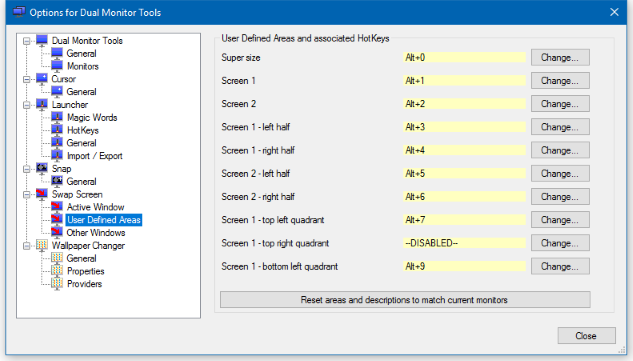
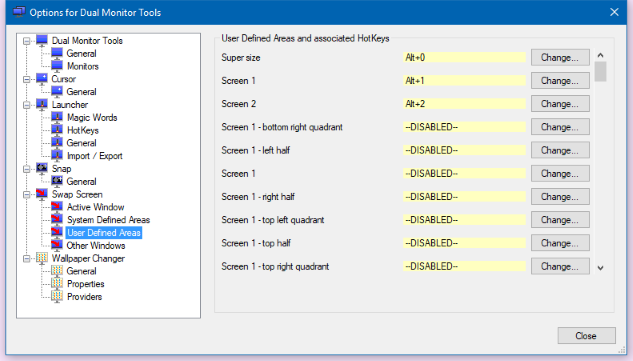
Updates ready for 2.6 release
git-svn-id: svn://svn.code.sf.net/p/dualmonitortool/code/trunk@459 fb2ba5e6-08d8-4d4c-bdde-3d14dca355d2

diff --git a/Web/dmt_swapscreen.html b/Web/dmt_swapscreen.html
@@ -121,14 +121,36 @@ only cycle through the half screens and not the normal size of the window.
 <p>Moves the active window to the next half screen (splitting each screen into 2 rows).
 </p>
 
+<p class="SubHeading">'System Defined Areas' options</p>
+
+<img src="Images/dmt_swapscreen_sda.png" alt="Active to SDA Window" />
+<p>These allow you to move the active window to a System Defined Area (SDA).</p>
+
+<p>A particular combination of the Shift, Ctrl, Win and Alt keys are used to identify each screen. You can adjust the combination to use for a particular screen by moving the lines up or down in the box shown in the center of the above screenshot.</p>
+
+<p>The numeric pad keys are then used to define 9 areas on each screen:
+<ul>
+	<li>&lt;Num 5&gt; - The full screen</li>
+	<li>&lt;Num 4&gt; and &lt;Num 6&gt; - The left and right screen halves</li>
+	<li>&lt;Num 8&gt; and &lt;Num 2&gt; - The top and bottom halves</li>
+	<li>&lt;Num 7&gt;, &lt;Num 9&gt;,&lt; &lt;Num 1&gt; and &lt;Num 3&gt; - the 4 screen quadrants</li>
+</ul>
+
+In addition &lt;Num 0&gt; when used with modifier keys for the first screen, will represent an area covering all of your monitors.
+</p>
+
+<p>So in the screenshot above, Ctrl+&lt;Num 7&gt; would move the active window to to top left quarter of the first screen, and Win+&lt;Num 3&gt; would move it to the bottom right quarter of the second screen.</p>
+
+<p>It is possible that Some key combinations may not be available, either because they are in use by other applications or by DMT itself for other functions.  If there are any that are not available, then they will reported in the area at the bottom of the screen.  If this happens, you can just try different modifier keys. </p>
+
 <p class="SubHeading">'User Defined Areas' options</p>
 
 <img src="Images/dmt_swapscreen_uda.png" alt="Active to UDA Window" />
 <p>These allow you to move the active window to a User Defined Area (UDA).</p>
 
-<p>When first run, 10 default UDA's are generated, but you may change the name, location, size and the hotkey for all of these.  If you wish to regenerate this list at a later date, say after you have added/removed monitors
-then press the "Reset areas and descriptions to match current monitors" button.</p>
+<p>You can specify up to 100 screen areas that you would like to be able to move the active window to with a hotkey.</p>
 
+<p>Unlike previous versions of DMT, there is now no automatic generation of UDAs as this functionality is now provided by SDAs.</p>
 
 <p class="SubHeading">'Other Windows' options</p>
 
@@ -180,7 +202,7 @@ to restore normal operation of the game, and in others it can mess the current g
 		<div id="footer-left">
 		</div>
 		<div id="footer-right">
-		last updated 30 Dec 2016
+		last updated 8 Jul 2017
 		</div>
 	</div>
 </div>

diff --git a/Web/history.html b/Web/history.html
@@ -56,6 +56,17 @@
 <div id="content">
 
 
+<p class="SubHeading">8 Jul 2017 - release 2.6</p>
+
+<p><b>DMT</b></p>
+<ul>
+	<li>SwapScreen now allows up to 100 user defined areas.</li>
+	<li>SwapScreen added system defined areas for each screen/half/quarter.</li>
+	<li>SwapScreen fix for snap up/down/left/right when taskbar at (0, 0).</li>
+	<li>Wallpaper changer can now enable/disable providers from grid.</li>
+	<li>Cursor fix for cursor sometimes passing to another screen when it shouldn't.</li>
+</ul>
+
 
 <p class="SubHeading">31 Dec 2016 - release 2.5</p>
 
@@ -364,7 +375,7 @@ DisMon has been dropped for the time being.</p>
 		<div id="footer-left">
 		</div>
 		<div id="footer-right">
-		last updated 30 Dec 2016
+		last updated 8 Jul 2017
 		</div>
 	</div>
 </div>

diff --git a/Web/index.html b/Web/index.html
@@ -61,7 +61,7 @@
 
 
 <p class="SubHeading">Current status</p>
-<p>The latest release of Dual Monitor Tools is 2.5 and is available for downloading from
+<p>The latest release of Dual Monitor Tools is 2.6 and is available for downloading from
 <a href="http://sourceforge.net/project/platformdownload.php?group_id=252267">SourceForge</a>.</p>
 
 <p>The tools/modules currently available are:</p>
@@ -173,7 +173,7 @@ or if you have enough monitors, a combination of these.</p>
 		<div id="footer-left">
 		</div>
 		<div id="footer-right">
-		last updated 30 Dec 2016
+		last updated 8 Jul 2017
 		</div>
 	</div>
 </div>

diff --git a/DMT/DMT/Modules/SwapScreen/SdaGeneratorNumPad.cs b/DMT/DMT/Modules/SwapScreen/SdaGeneratorNumPad.cs
@@ -36,21 +36,8 @@ namespace DMT.Modules.SwapScreen
 	{
 		SwapScreenModule _swapScreenModule;
 
-		//bool _forceHotKeyRegeneration;
-		//bool _enableHotKeys;
+		uint[] ScreenBaseKeyCode;
 
-		uint[] ScreenBaseKeyCode =
-		{
-			KeyCombo.FlagControl,
-			KeyCombo.FlagWin,
-			KeyCombo.FlagAlt
-		};
-
-		//public SdaGeneratorNumPad(bool forceHotKeyRegeneration, bool enableHotKeys)
-		//{
-		//	_forceHotKeyRegeneration = forceHotKeyRegeneration;
-		//	_enableHotKeys = enableHotKeys;
-		//}
 		public SdaGeneratorNumPad(SwapScreenModule swapScreenModule, uint[] modifierList)
 		{
 			_swapScreenModule = swapScreenModule;
@@ -62,9 +49,9 @@ namespace DMT.Modules.SwapScreen
 		}
 
 		/// <summary>
-		/// Genertaes default user defined areas
+		/// Genertaes default system defined areas
 		/// </summary>
-		/// <param name="sdaControllers">Controllers for the user defined areas</param>
+		/// <param name="sdaControllers">Controllers for the system defined areas</param>
 		/// <param name="allMonitors">All monitors</param>
 		public void GenerateSdas(List<SdaController> sdaControllers, Monitors allMonitors, List<string> registrationErrors)
 		{
@@ -167,10 +154,8 @@ namespace DMT.Modules.SwapScreen
 				comboValue = ScreenBaseKeyCode[screenIndex];
 				// and add the code for the required key on the numpad
 				comboValue += (uint)Keys.NumPad0 + (uint)keyIndex;
-				//if (_enableHotKeys)
-				{
-					comboValue |= KeyCombo.FlagEnabled;
-				}
+				// and we want it automatically enabled
+				comboValue |= KeyCombo.FlagEnabled;
 			}
 
 			// update the controller for the new values
@@ -181,12 +166,6 @@ namespace DMT.Modules.SwapScreen
 				keyCombo.ComboValue = comboValue;
 				string msg = string.Format("{0} for {1}", keyCombo.ToString(), description);
 				registrationErrors.Add(msg);
-
-				//// we couldn't set the hot key values - beacuse the hot key is already registered
-				//// so set the values, but with the hotkey disabled
-				//comboValue &= ~ KeyCombo.FlagEnabled;
-				//sdaController.SetValues(comboValue, rectangle);
-
 			}
 		}
 	}

diff --git a/DMT/DMT/Modules/SwapScreen/SdaController.cs b/DMT/DMT/Modules/SwapScreen/SdaController.cs
@@ -40,22 +40,15 @@ namespace DMT.Modules.SwapScreen
 		{
 			_command = command;
 			_hotKeyService = hotKeyService;
+
+			// add our handler to the command
+			_command.Handler = HotKeyHandler;
+
 			HotKey = _hotKeyService.CreateHotKey(HotKeyHandler);
 		}
 
-		//public SdaController(Command command, Rectangle position, KeyCombo keyCombo, IHotKeyService hotKeyService)
-		//{
-		//	_command = command;
-		//	Position = position;
-		//	_hotKeyService = hotKeyService;
-
-		//	_command.Handler = HotKeyHandler;
-
-		//	HotKey = _hotKeyService.CreateHotKey(keyCombo, HotKeyHandler);
-		//}
-
 		/// <summary>
-		/// Gets or sets the location of the user defined area
+		/// Gets or sets the location of the system defined area
 		/// </summary>
 		public Rectangle Position { get; protected set; }
 
@@ -64,13 +57,12 @@ namespace DMT.Modules.SwapScreen
 		/// </summary>
 		public HotKey HotKey { get; protected set; }
 
-
 		/// <summary>
 		/// Updates values for the system defined area
 		/// </summary>
 		/// <param name="keyCode"> key code used by the hot key</param>
-		/// <param name="position">Location of the user defined area</param>
-		/// <returns>True if managed to set up the user defined area</returns>
+		/// <param name="position">Location of the system defined area</param>
+		/// <returns>True if managed to set up the system defined area</returns>
 		public bool SetValues(uint keyCode, Rectangle position)
 		{
 			KeyCombo keyCombo = new KeyCombo();
@@ -85,7 +77,7 @@ namespace DMT.Modules.SwapScreen
 		}
 
 		/// <summary>
-		/// Hot key handler for the user defined area
+		/// Hot key handler for the system defined area
 		/// </summary>
 		public void HotKeyHandler()
 		{
@@ -96,7 +88,6 @@ namespace DMT.Modules.SwapScreen
 		{
 			HotKey.UnRegisterHotKey();
 		}
-
 
 		void Dispose(bool disposing)
 		{

diff --git a/DMT/DMT/Properties/AssemblyInfo.cs b/DMT/DMT/Properties/AssemblyInfo.cs
@@ -10,7 +10,7 @@ using System.Runtime.InteropServices;
 [assembly: AssemblyConfiguration("")]
 [assembly: AssemblyCompany("GNE")]
 [assembly: AssemblyProduct("Dual Monitor Tools")]
-[assembly: AssemblyCopyright("Copyright © 2009-2016 Gerald Evans")]
+[assembly: AssemblyCopyright("Copyright © 2009-2017 Gerald Evans")]
 [assembly: AssemblyTrademark("")]
 [assembly: AssemblyCulture("")]
 
@@ -32,5 +32,5 @@ using System.Runtime.InteropServices;
 // You can specify all the values or you can default the Build and Revision Numbers 
 // by using the '*' as shown below:
 // [assembly: AssemblyVersion("1.0.*")]
-[assembly: AssemblyVersion("2.5.0.0")]
-[assembly: AssemblyFileVersion("2.5.0.0")]
+[assembly: AssemblyVersion("2.6.0.0")]
+[assembly: AssemblyFileVersion("2.6.0.0")]

diff --git a/DualWallpaper/DualWallpaper/Properties/AssemblyInfo.cs b/DualWallpaper/DualWallpaper/Properties/AssemblyInfo.cs
@@ -10,7 +10,7 @@ using System.Runtime.InteropServices;
 [assembly: AssemblyConfiguration("")]
 [assembly: AssemblyCompany("GNE")]
 [assembly: AssemblyProduct("DualWallpaper")]
-[assembly: AssemblyCopyright("Copyright © 2010-2016 Gerald Evans and contributors")]
+[assembly: AssemblyCopyright("Copyright © 2010-2017 Gerald Evans and contributors")]
 [assembly: AssemblyTrademark("")]
 [assembly: AssemblyCulture("")]
 
@@ -29,5 +29,5 @@ using System.Runtime.InteropServices;
 //      Build Number
 //      Revision
 //
-[assembly: AssemblyVersion("2.5.0.0")]
-[assembly: AssemblyFileVersion("2.5.0.0")]
+[assembly: AssemblyVersion("2.6.0.0")]
+[assembly: AssemblyFileVersion("2.6.0.0")]
